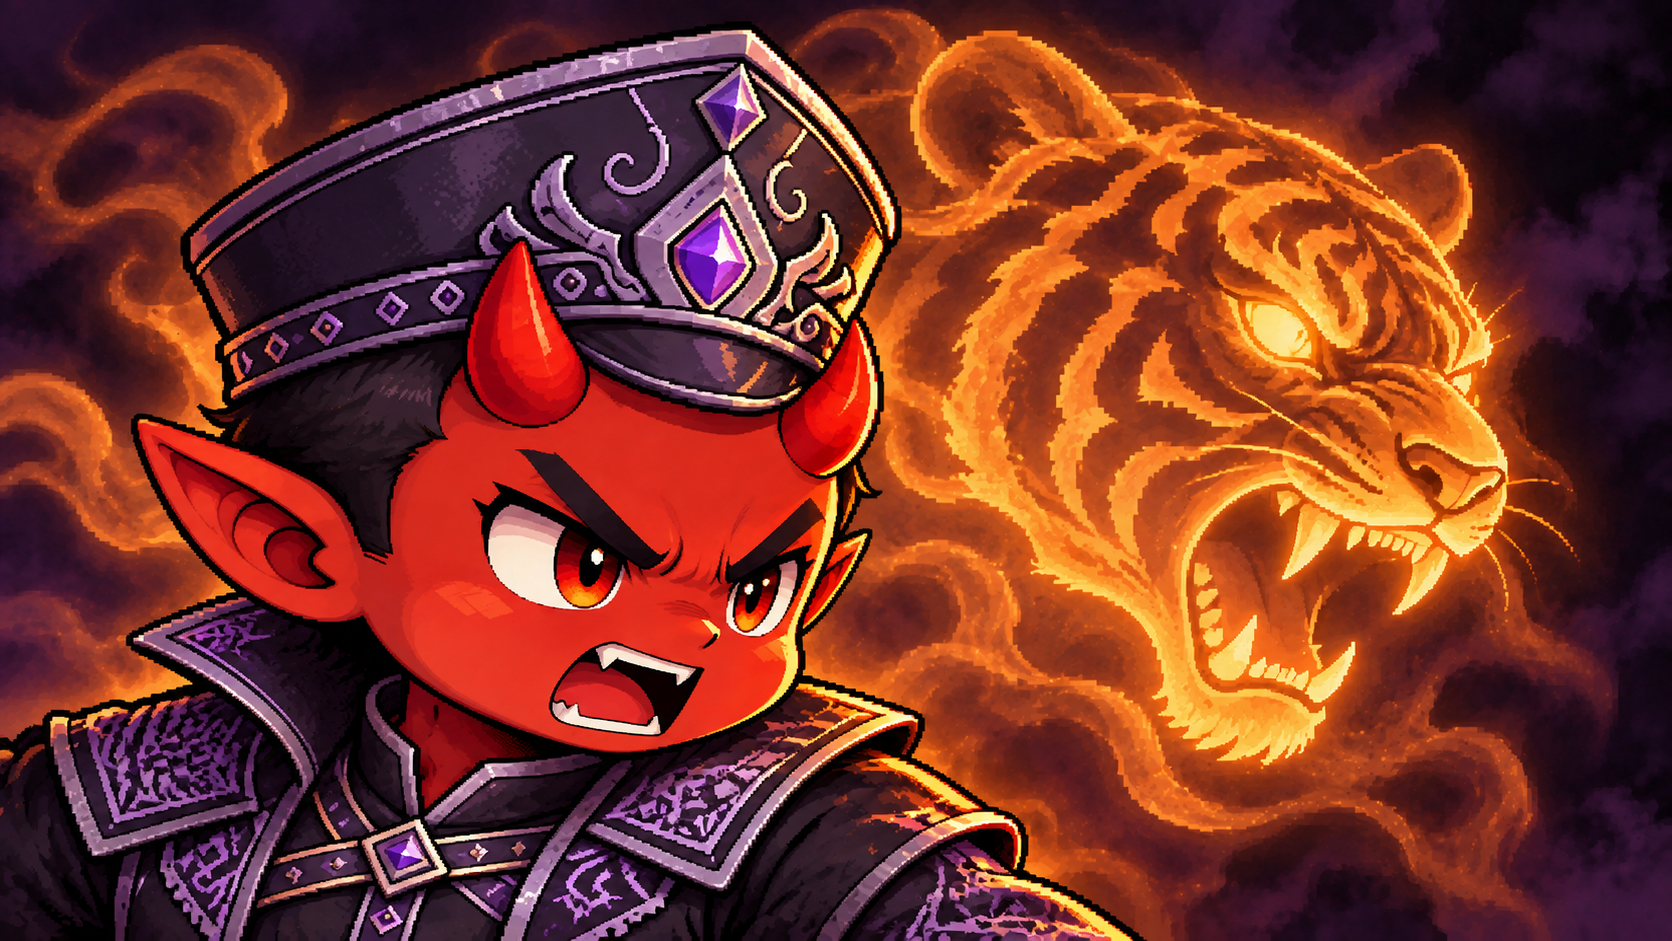
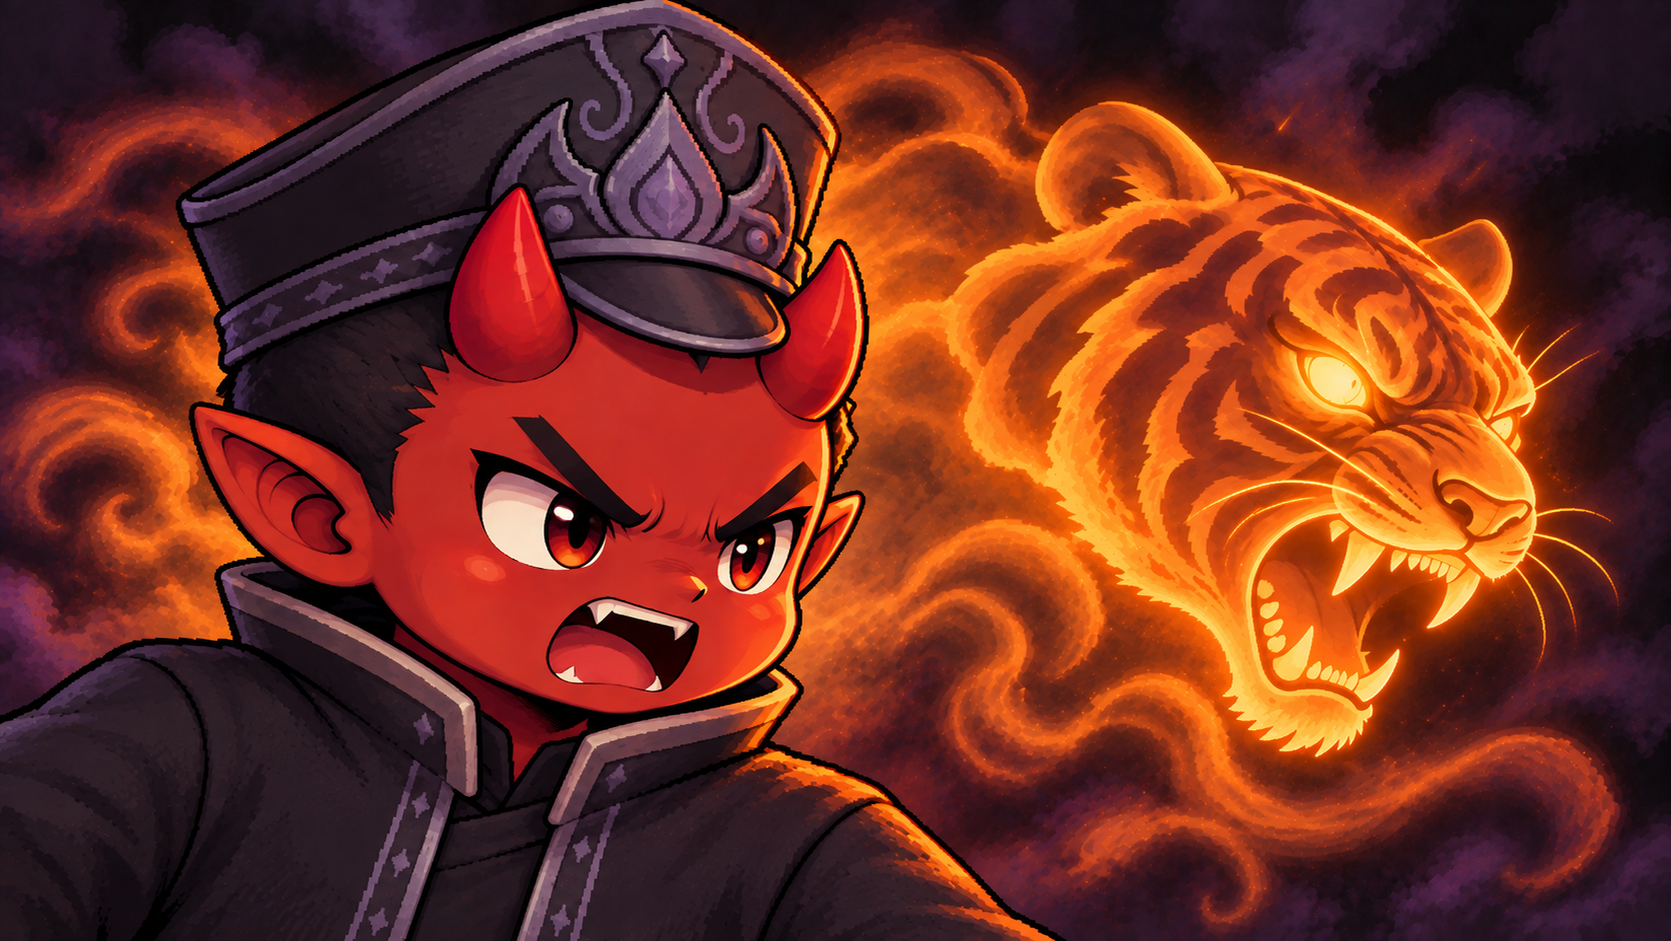
Redraw zone 1 and zone 4 roar cutscenes to match in-game sprite outfits
Regenerate the Thai (zone 1) and CyberHell (zone 4) roar v4 portraits so the
costumes match the actual Yama sprites (slender chada crown, red collar;
low peaked hat, plain coat). Update the recorded prompts and bump the
preload catalog cache suffix.

diff --git a/src/preload.js b/src/preload.js
@@ -5,7 +5,7 @@ const queue = createAssetQueue(url => url.startsWith('audio:') ? preloadBgm(url.
 let catalogPromise, active = null;
 const LABELS = { th:'สุวรรณภูมิ', asia:'บูรพา', west:'ปัจฉิม', cyberhell:'นรกเครือข่าย' };
 async function catalog() {
-  if (!catalogPromise) catalogPromise = fetchWithTimeout('img/preload-catalog.json?v=20261007-asset-cleanup', { cache:'no-cache' })
+  if (!catalogPromise) catalogPromise = fetchWithTimeout('img/preload-catalog.json?v=20261008-roar-outfit', { cache:'no-cache' })
     .then(async ({response:r, release}) => {
       try { if (!r.ok) throw new Error('catalog unavailable'); return await r.json(); }
       finally { release(); }
